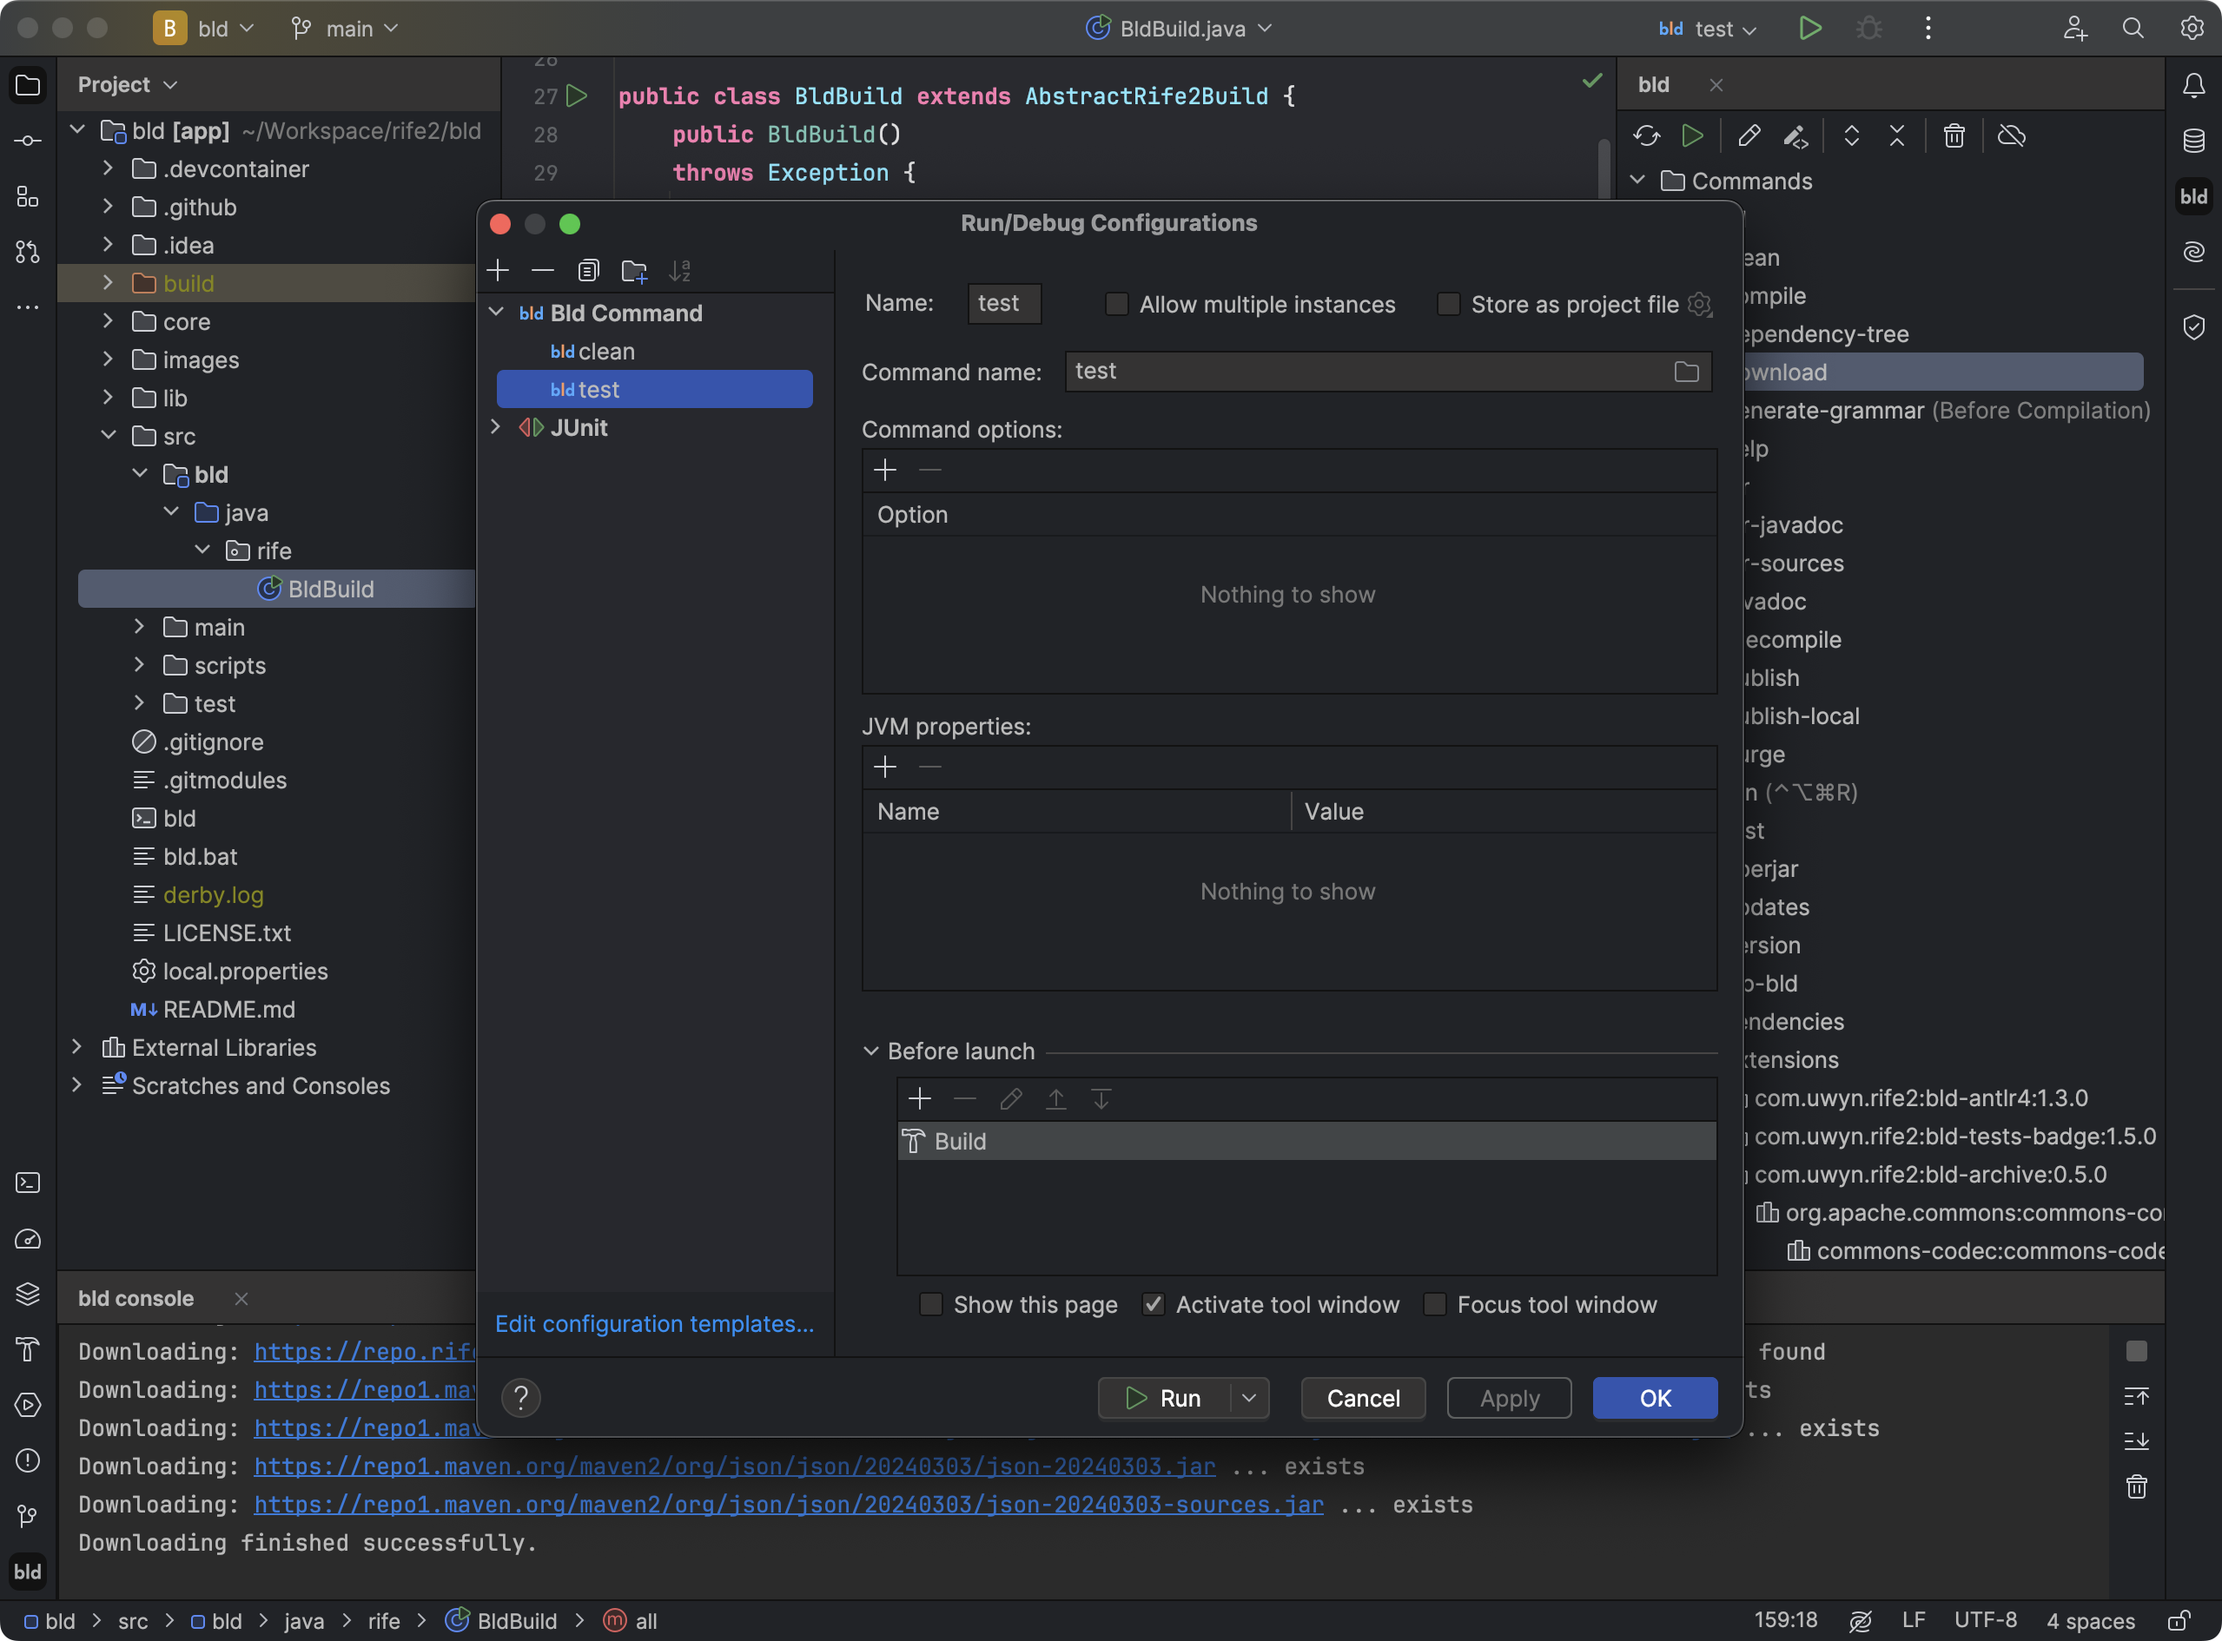
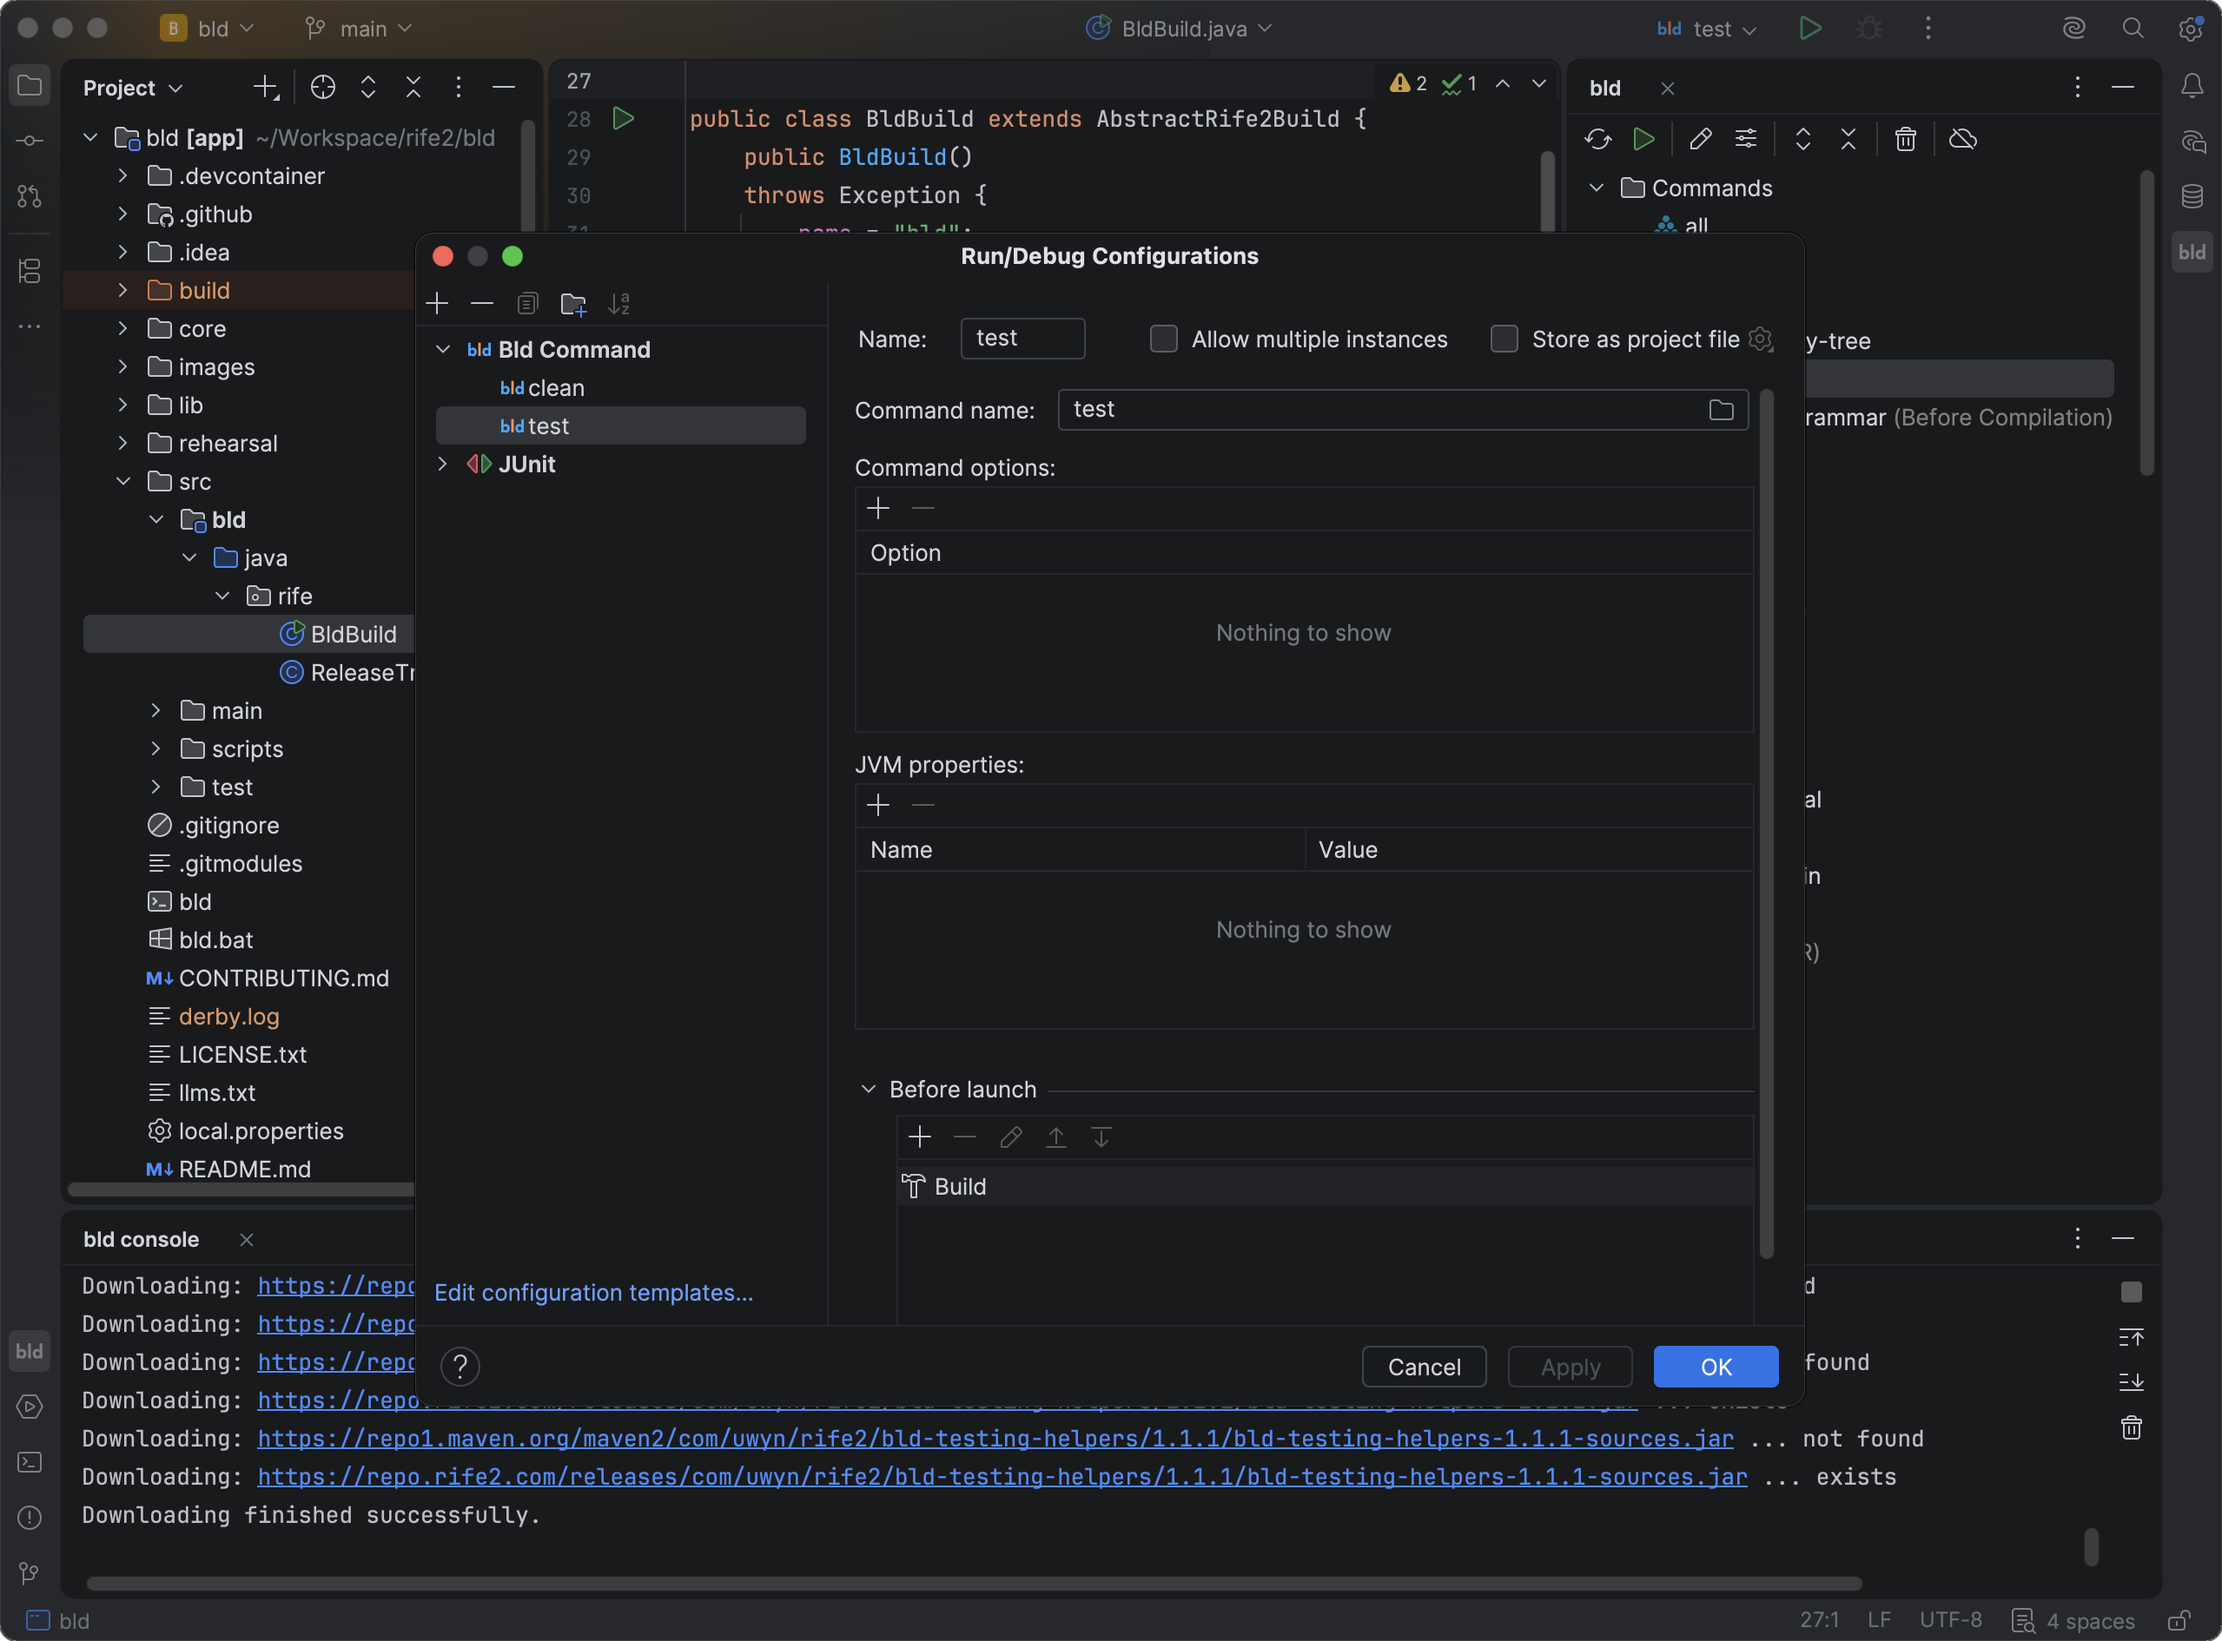
Updated the bld IDEA plugin screenshots and features

diff --git a/src/main/resources/templates/bld.html b/src/main/resources/templates/bld.html
@@ -152,7 +152,9 @@
         <li>Quick access to open and edit the main Java class and wrapper properties of bld projects</li>
         <li>List all the commands in bld projects in a side panel</li>
         <li>Execute one or multiple commands in the order they were selected</li>
+        <li>Run bld commands from icons in the gutter of the build file</li>
         <li>Reload the commands in the bld project</li>
+        <li>Automatically reload the commands and dependencies when the build sources or wrapper properties change</li>
         <li>Terminate currently running bld commands</li>
         <li>bld console panel for command output with source code hyperlinking</li>
         <li>Display the bld dependency tree</li>
